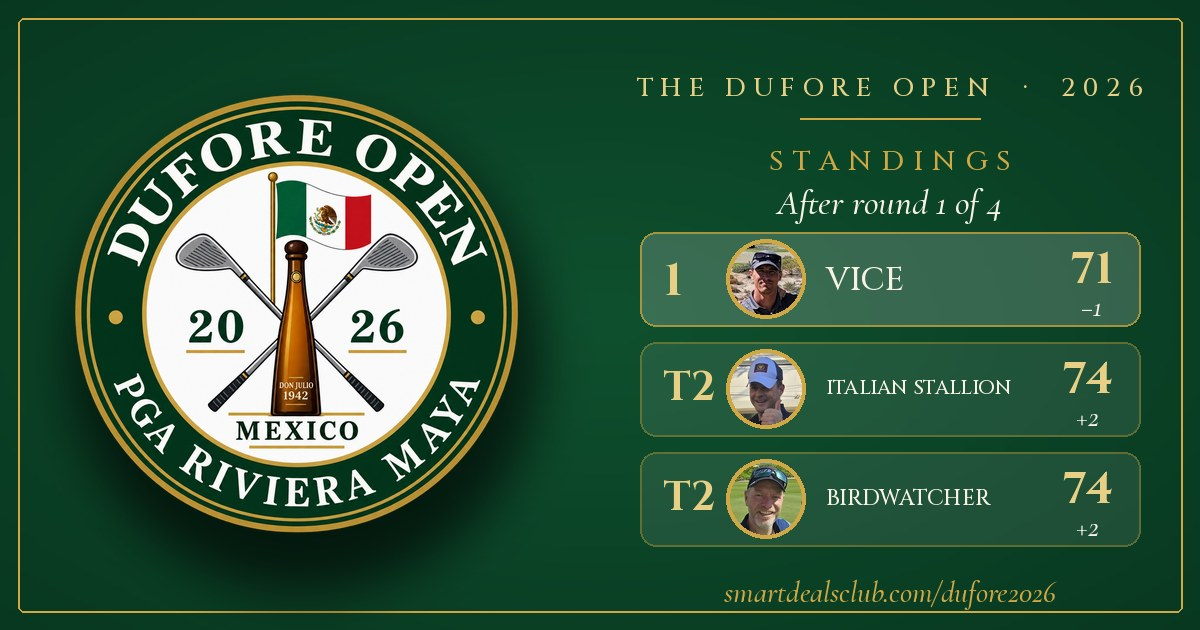
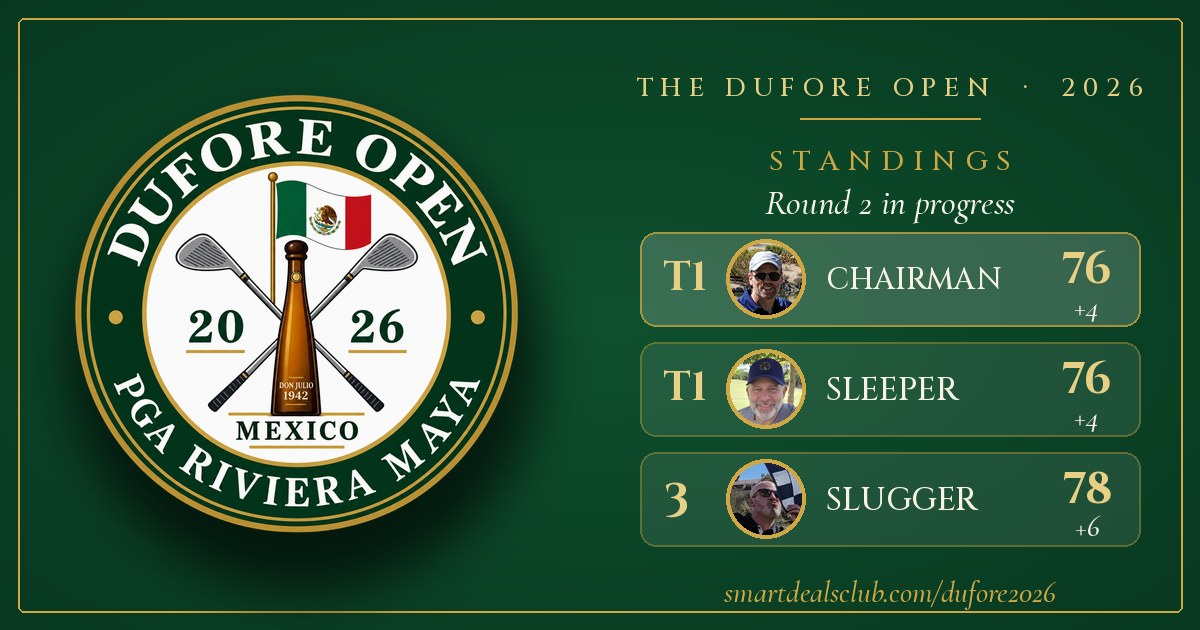
Dufore Open: round 2 partial results and in-progress standings (#39)
* Add Dufore Open 2026 teaser page with countdown

Claude-Session: https://claude.ai/code/session_01PxtoKeknrPEQGS1ZPt4kTL

* Teaser: add round one tee times and coming-soon icons

Claude-Session: https://claude.ai/code/session_01PxtoKeknrPEQGS1ZPt4kTL

* Teaser: frame spans full page height

Claude-Session: https://claude.ai/code/session_01PxtoKeknrPEQGS1ZPt4kTL

* Teaser: add tee time groups

Claude-Session: https://claude.ai/code/session_01PxtoKeknrPEQGS1ZPt4kTL

* Teaser: add PGA Riviera Maya venue logo

Claude-Session: https://claude.ai/code/session_01PxtoKeknrPEQGS1ZPt4kTL

* Teaser: drop duplicate venue text under logo

Claude-Session: https://claude.ai/code/session_01PxtoKeknrPEQGS1ZPt4kTL

* Teaser: remove round one eyebrow, add 4 rounds line

Claude-Session: https://claude.ai/code/session_01PxtoKeknrPEQGS1ZPt4kTL

* Teaser: add honorary starters portraits and handicap cards

Claude-Session: https://claude.ai/code/session_01PxtoKeknrPEQGS1ZPt4kTL

* Teaser: add The Cook and The BirdWatcher portraits

Claude-Session: https://claude.ai/code/session_01PxtoKeknrPEQGS1ZPt4kTL

* Teaser: add The Sleeper portrait

Claude-Session: https://claude.ai/code/session_01PxtoKeknrPEQGS1ZPt4kTL

* Teaser: add Italian Stallion to honorary starters

Claude-Session: https://claude.ai/code/session_01PxtoKeknrPEQGS1ZPt4kTL

* Dufore Open: standings, field, scoring rules and score data file

Claude-Session: https://claude.ai/code/session_01PxtoKeknrPEQGS1ZPt4kTL
[…]

diff --git a/dufore2026/index.html b/dufore2026/index.html
@@ -14,10 +14,10 @@
 <meta property="og:url" content="https://smartdealsclub.com/dufore2026/">
 <meta property="og:image:width" content="1200">
 <meta property="og:image:height" content="630">
-<meta name="twitter:image" content="https://smartdealsclub.com/dufore2026/share.jpg?v=73412d0c">
+<meta name="twitter:image" content="https://smartdealsclub.com/dufore2026/share.jpg?v=6907d3ca">
 <meta property="og:title" content="Dufore Open 2026">
 <meta property="og:description" content="Something's brewing at PGA Riviera Maya. Tee off tomorrow, 9:00 AM.">
-<meta property="og:image" content="https://smartdealsclub.com/dufore2026/share.jpg?v=73412d0c">
+<meta property="og:image" content="https://smartdealsclub.com/dufore2026/share.jpg?v=6907d3ca">
 <meta property="og:type" content="website">
 <meta name="twitter:card" content="summary_large_image">
 <link rel="icon" type="image/png" href="favicon.png">
@@ -745,14 +745,12 @@ tick();
     var rest=res.filter(function(r){return r.done===0});
     played.sort(function(a,b){
       var da=a.total-PAR*a.done, db=b.total-PAR*b.done;
-      if(a.done!==b.done)return b.done-a.done;
       if(da!==db)return da-db;
       return 0});
     var maxDone=played.length?played[0].done:0;
     var posOf=[];played.forEach(function(r,i){
       var j=i;while(j>0&&cmp(played[j-1],r)===0)j--;posOf.push(j+1)});
     function cmp(a,b){
-      if(a.done!==b.done)return b.done-a.done;
       var da=a.total-PAR*a.done,db=b.total-PAR*b.done;
       if(da!==db)return da-db;return 0}
     var ties={};posOf.forEach(function(x){ties[x]=(ties[x]||0)+1});
@@ -761,7 +759,7 @@ tick();
       var list=res.filter(function(r){for(var j=0;j<=i;j++)if(r.net[j]==null)return false;return true}).map(function(r){var q=0;for(var j=0;j<=i;j++)q+=r.net[j];return {id:r.p.id,s:q}});
       list.sort(function(a,b){return a.s-b.s});
       var m={};list.forEach(function(x,n){var q=n;while(q>0&&list[q-1].s===x.s)q--;m[x.id]=q+1});rk.push(m)});
-    function mvOf(id){if(lastRound<1)return 0;var a=rk[lastRound-1][id],b=rk[lastRound][id];return(a&&b)?a-b:0}
+    function mvOf(id){if(lastRound<1||res.some(function(r){return r.net[lastRound]==null}))return 0;var a=rk[lastRound-1][id],b=rk[lastRound][id];return(a&&b)?a-b:0}
     var sigs={},nch=0;res.forEach(function(r){sigs[r.p.id]=JSON.stringify([r.net,r.gross,r.thru])});
     var board=document.getElementById("board");board.innerHTML="";
     board.appendChild(el("div","row head",'<span>Pos</span><span></span><span>Player</span><span>R1</span><span>R2</span><span>R3</span><span>R4</span><span>Total</span>'));
@@ -783,7 +781,7 @@ tick();
     var st=document.getElementById("status");
     var full=rounds.filter(function(k,i){return res.every(function(r){return r.net[i]!=null})}).length;
     if(!played.length&&!res.some(function(r){return r.thru.some(function(x){return x>0})}))st.textContent="Round 1 tees off Wednesday, 9:00 AM. Scores post after every round.";
-    else st.textContent=(full===0?"Round 1 in progress":"Round "+full+" of 4 complete")+(D.updated?" \u00b7 Updated "+D.updated:"");
+    else st.textContent=(full<4&&res.some(function(r){return r.net[full]!=null||r.thru[full]>0})?"Round "+(full+1)+" in progress"+(full>0?" \u00b7 Round "+full+" complete":""):(full===0?"Round 1 in progress":"Round "+full+" of 4 complete"))+(D.updated?" \u00b7 Updated "+D.updated:"");
     var posMap={};played.forEach(function(r,i){posMap[r.p.id]=(ties[posOf[i]]>1?"T":"")+posOf[i]});
     window.__d={res:res,rk:rk,D:D,PAR:PAR,pos:posMap,lastRound:lastRound};
     lastSig=sigs;try{localStorage.setItem("dufore26-sig",JSON.stringify(sigs))}catch(e){}
@@ -903,7 +901,8 @@ tick();
     var rows="",cards="";
     ["1","2","3","4"].forEach(function(k,i){
       var h=(D.rounds[k]||{})[p.id]||[];
-      var rankNow=X.rk[i][p.id],rankPrev=i?X.rk[i-1][p.id]:null,mv=(rankNow&&rankPrev)?rankPrev-rankNow:0;
+      var rdone=X.res.every(function(q){return q.net[i]!=null});
+      var rankNow=rdone?X.rk[i][p.id]:null,rankPrev=(i&&rdone)?X.rk[i-1][p.id]:null,mv=(rankNow&&rankPrev)?rankPrev-rankNow:0;
       var pos=rankNow?('<b>'+rankNow+'</b>'+(mv?'<em class="mv '+(mv>0?'up':'dn')+'">'+(mv>0?'\u25B2':'\u25BC')+Math.abs(mv)+'</em>':'')):'<span class="na">\u2013</span>';
       if(r.net[i]!=null)rows+='<tr><td>Round '+k+'</td><td>'+r.gross[i]+'</td><td>'+(r.bonus[i]?'\u2605'+r.bonus[i]:'\u2013')+'</td><td><b>'+r.net[i]+'</b></td><td class="ps">'+pos+'</td></tr>';
       else if(r.thru[i]>0)rows+='<tr><td>Round '+k+'</td><td>'+r.gross[i]+'</td><td>\u2013</td><td class="na">thru '+r.thru[i]+'</td><td class="ps"><span class="na">\u2013</span></td></tr>';

diff --git a/dufore2026/tools/make_share.py b/dufore2026/tools/make_share.py
@@ -58,7 +58,7 @@ for p in d["players"]:
     res.append({"p": p, "nets": nets, "done": done, "total": sum(n for n in nets if n is not None)})
 played = [r for r in res if r["done"]]
 last = max([i for r in played for i, n in enumerate(r["nets"]) if n is not None], default=-1)
-played.sort(key=lambda r: (-r["done"], r["total"] - PAR * r["done"]))
+played.sort(key=lambda r: r["total"] - PAR * r["done"])
 
 # ---- canvas ----
 W, H = 1200, 630
@@ -130,8 +130,9 @@ elif not played:
     center_text(480, "Mexico · 4 rounds · 1 champion", font("corm", 40), GOLD)
 else:
     rn = max(r["done"] for r in played)
+    in_progress = any(r["done"] < rn for r in res)
     centered_spaced(142, "STANDINGS", font("cinzel", 28), GOLD, 9)
-    center_text(180, "After round %d of 4" % rn if rn < 4 else "Final standings", font("corm", 36), CREAM)
+    center_text(180, ("Round %d in progress" % rn) if in_progress else ("After round %d of 4" % rn if rn < 4 else "Final standings"), font("corm", 36), CREAM)
     y = 232
     for i, r in enumerate(played[:3]):
         rowy = y + i * 110
@@ -139,7 +140,7 @@ else:
         ImageDraw.Draw(ov).rounded_rectangle((X, rowy, W - 60, rowy + 94), radius=16, fill=(255, 255, 255, 22 if i else 46), outline=(207, 168, 69, 200 if i == 0 else 110), width=2)
         im.alpha_composite(ov)
         dr = ImageDraw.Draw(im)
-        key = lambda q: (-q["done"], q["total"] - PAR * q["done"])
+        key = lambda q: q["total"] - PAR * q["done"]
         pos = next(j for j in range(len(played)) if key(played[j]) == key(r)) + 1
         tied = sum(1 for q in played if key(q) == key(r)) > 1
         dr.text((X + 24, rowy + 18), ("T" if tied else "") + str(pos), font=font("cinzelb", 40 if tied else 46), fill=GOLDL)
